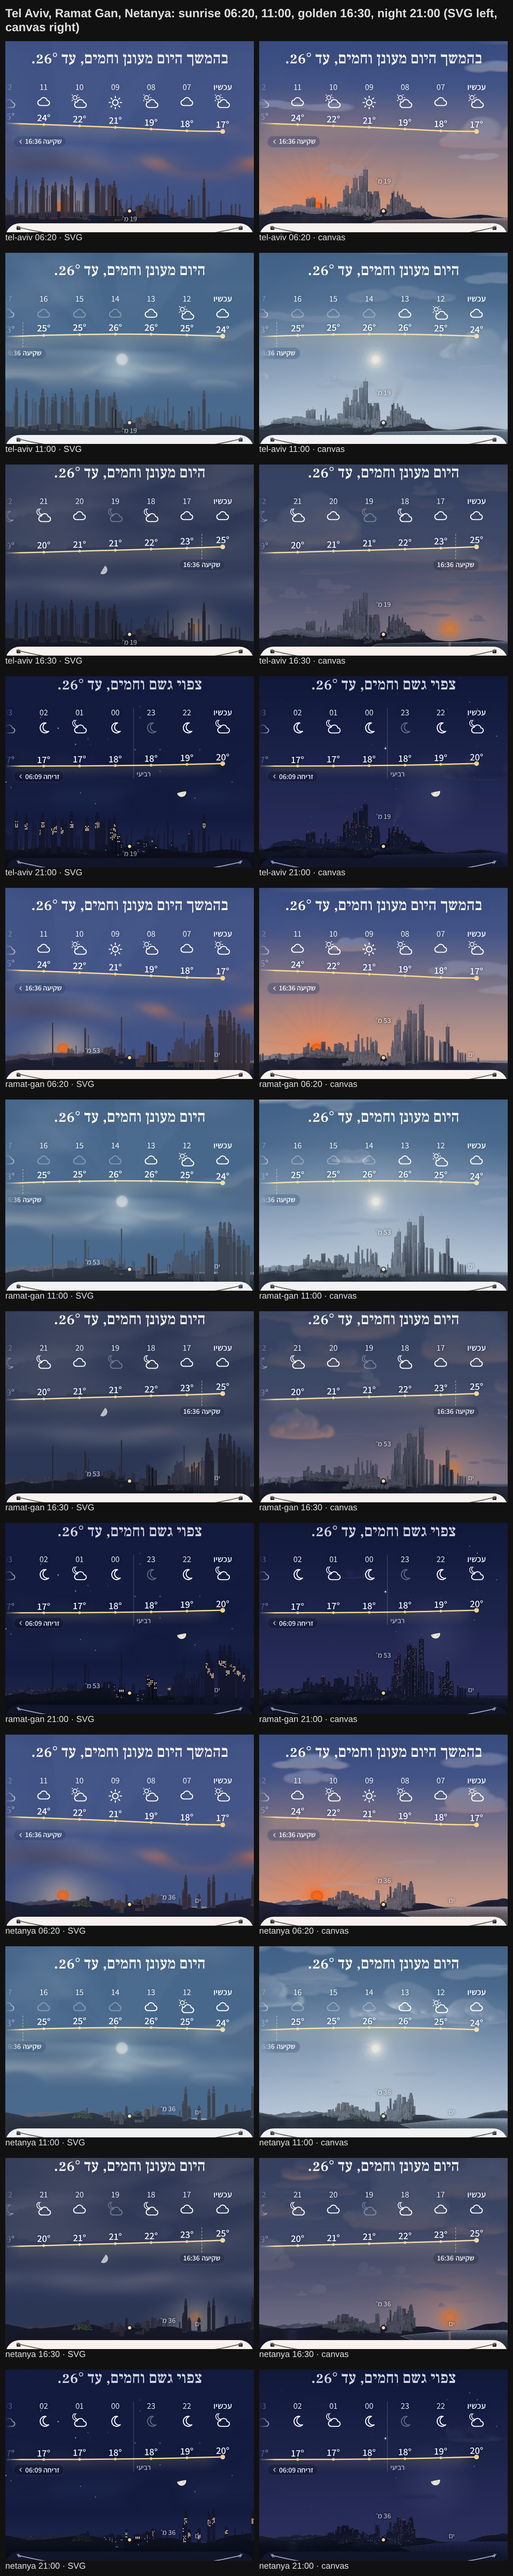
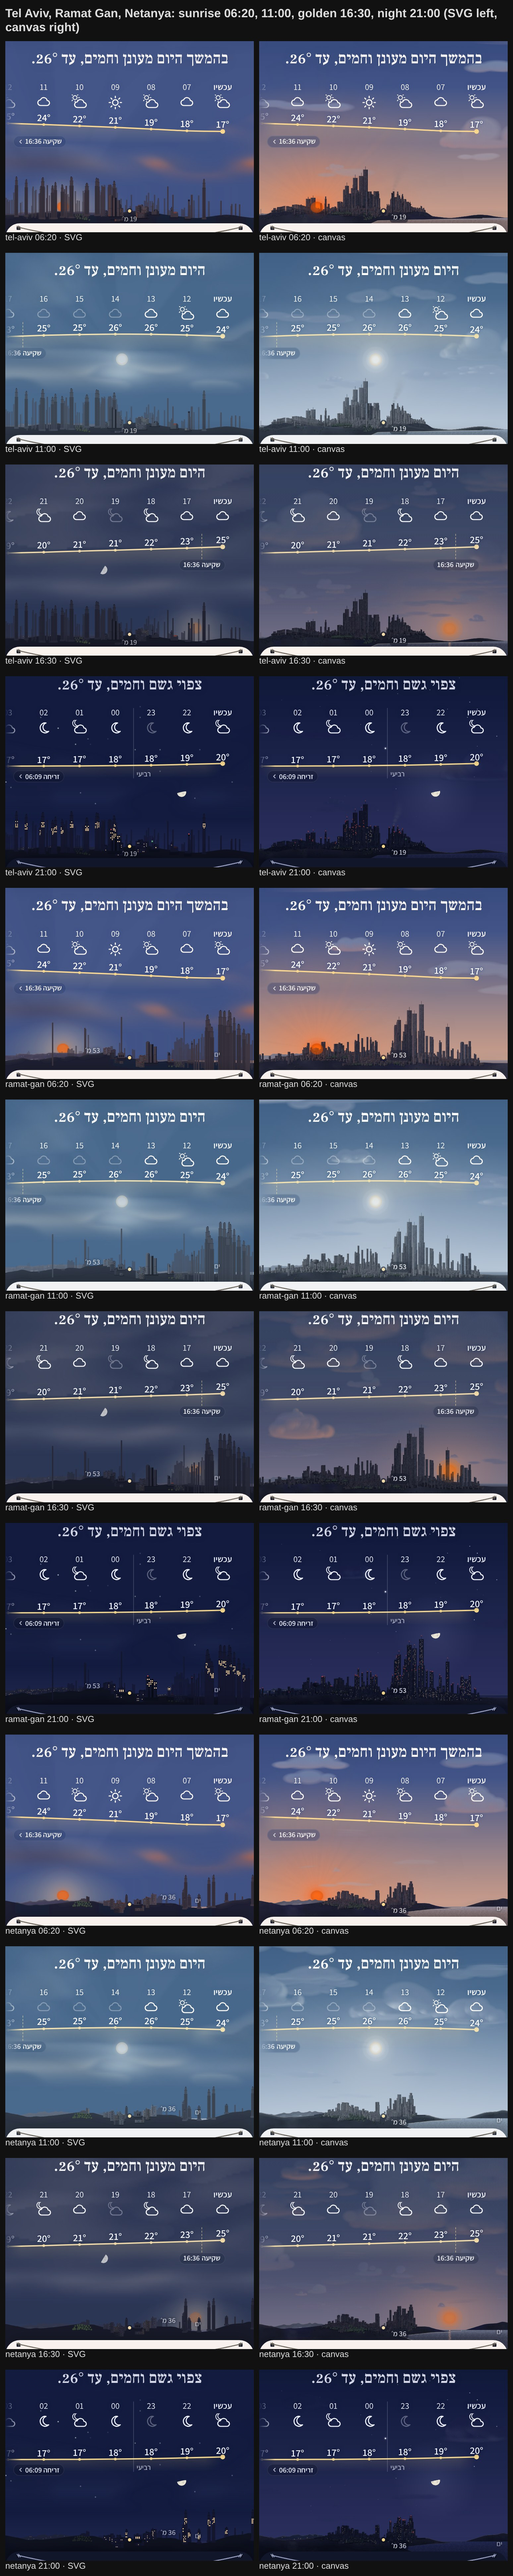
C9 review pack regenerated after the defect fixes, with a rays sheet; plan, owner decisions and perf notes
- docs/design/qa/canvas/c9-review/: the seven sheets remade with the same runner, plus rays.jpg; index.md lists
  what was fixed and what remains.
- scene.compare.mjs: `broken` and `hazy` moments for the rays sheet.
- Plan: owner decisions 12 (the pack approved, canvas preferred) and 13 (sun rays where they fit); §6 the
  defects' rules and results, the rays, tests, pixels, perf, what remains. perf.md: the run.

Claude-Session: https://claude.ai/code/session_01E56gvZXYsq7CPbpJHU5CiC

diff --git a/docs/design/CANVAS-SCENE-PLAN.md b/docs/design/CANVAS-SCENE-PLAN.md
@@ -565,6 +565,18 @@ pipeline (land colour by season, vegetation from WorldCover, rain edge marks).
     dense high-rise the jagged mass with spires (B). Houses are never placed outside the real built footprint. The composed
     portrait round the dot (`world/portrait.ts`) is kept only for the drawn stand-in (no panorama, no positions).
 
+**Owner decisions (2026-11-19, at the C9 review):**
+12. **The C9 review pack is approved; the owner prefers the canvas scene.** The switch (C9: canvas the default, `?svg=1` kept
+    one release as the way out, then the deletions of §2) may go ahead once the open defects of §6 are settled.
+13. **Sun rays where they fit** ("something is missing in the sky — maybe sun rays where it fits"): the SVG scene shows soft
+    rays round the sun, the canvas only C7's narrow crepuscular case. Rays wherever they really occur, as general rules from
+    the world state: crepuscular shafts through the gaps whenever the sun is behind broken cloud with enough haze (not only
+    at a low sun), fanning from the sun's true spot; rays fanning over the ridge when the sun sits just behind or at the
+    crest at sunrise or sunset; anticrepuscular rays opposite the sun at a low sun when the crepuscular are strong; a soft
+    glare round a directly seen sun by the haze (what the eye sees), subtle, never a cartoon starburst; none in clear dry
+    air at a high sun, none at night. Cheap (cached, laid at composite time), deterministic, in the anidoodle hand; tested;
+    ray moments in the review pack.
+
 **Deploys pending for the owner** (in order; every later stage appends here instead of deploying):
 1. The forecast Worker (`worker/`) with C0's new hourly fields in its allowlist (`wind_direction_10m`, `visibility`,
    wind speed and direction at 850 / 700 / 300 hPa).
@@ -1473,4 +1485,105 @@ below runs only under `?canvas=1`). Pack: `qa/canvas/c9-review/index.md` (7 shee
   9. Zikhron Ya'akov: the far chimneys at Hadera show as a pale bare stick at the sea's edge.
   10. Be'er Sheva: the mass's west part is a flat, even wall.
   - Under `?wx=` rain and thunder the sun shows veiled in both scenes (no thick-cloud key in `?wx=`); a pack artefact.
+  - No deploys needed.
+
+**C9, the review's defects fixed (2026-11-19): every one by a general rule, and the owner's rays.** Commits on
+`ccr-85ec24f0-9ayxgu` (after the pack); the SVG baseline and the shipped app are unchanged (snapshots untouched; nothing in
+`src/ui` or `src/data` changed; everything below runs only under `?canvas=1`). The pack regenerated with the same runner
+and the same sheets, plus `rays.jpg` (`qa/canvas/c9-review/index.md`).
+- *Drawing with the anidoodle skill* (owner decision 7): `craft-bar.md` ("parts floating off": the far tower's foot and the
+  towns at the towers' feet; "text is never set over a busy picture without a plate under it": the label's backing;
+  "gradient sky, disc sun": the glare and rays as light, not a starburst), `realism-and-craft.md` ("form, then colour: one
+  named light", the one world light for the mass, the water's path and the rays) and `determinism-and-contract.md` (every
+  new layer's key names what its pixels depend on; randomness seeded by the place) read again; each fix looked at on 2–2.5× crops (Jerusalem and Tel Aviv at 06:20 / 16:30, Jerusalem and Haifa
+  in rain, Haifa's thunder lobe, Haifa's sunrise, the labels, Netanya's and Tiberias's water names, Ramat Gan's edges,
+  Masada's lake, Nahalal's ridge, Hadera's chimneys, Be'er Sheva's west, the rays at Haifa 08:00, Ein Gedi and Tel Aviv).
+1. **A wall faces the sky behind the eye; it gives back its albedo's share of it** (`model/marks.ts` `againstLight`,
+   `wallShade`; `model/outside.ts` `skyFormOf`, `landBehind`). *Against the light* (the sun low in the half of the sky the
+   eye looks into, 1 at sunrise and sunset over the land, falling by 40° and toward the eye's side, through twilight) the
+   walls the eye sees face away from the sun and the bright sky: no stone lift, less of the air's tone, the glass mirroring
+   the dim sky; under a dull sky (direct < 0.4) they see the dim horizon half of the overcast and give back about what the
+   ground does. The sky's form on the mass (C5b) is now by albedo in linear light (0.45 × 0.62 of the sky they face for the
+   tops, 0.55 for the face to the sun's side; against the light the sky behind the eye, 0.45 of the view's): tops and rims
+   catch a little light, never the sky's own. And **nothing is hazier than the land it is seen against**: a box, tower,
+   tree or mark whose foot shows in front of a plane (the near ridge with the lie's 6 px over it, the place's own drawn
+   ground, the far planes) takes no more than that land's distance of air; the far rows of a deep city (Jerusalem's 10 km)
+   had taken up to 13 km of it over a ridge 3 km off. Result: Jerusalem and Tel Aviv at 06:20 / 16:30 read as dark masses on
+   their ridge, a rim on the sun's side, the walls within 0.03 (luminance) of the ridge at their distance (were 0.1–0.3
+   over it); at 11:00 lit stone stays 0.10 over the ridge; in rain the mass reads a little lighter than the hill, not pale.
+   The far towns take the same shade (`model/farCities.ts`: their shade's stone by `wallShade`, their lit face a rim against
+   the light).
+2. **The aureole is the air's, nearer than any cloud; a bank in front of the sun has its silver** (`model/bodies.ts`
+   `bodies.aureole` at z 8.6 over the clouds, the disc still at 5 under them; `model/clouds.ts` `litOf`: a bank whose outline
+   comes within the aureole's reach of the sun takes a silver edge of 0.9 × the sun's strength × √(the disc's visibility),
+   whatever lights its top (`through`); the painter's rim and silver wash on every heaped or sheet bank). Haifa 15:00 thunder:
+   the lobe over the disc reads as a cloud passing the sun, its edge toward it lit, the glow lying over it, not a black coin
+   in a ring. (The silver is baked into the drifting layer as C6's was: over a minute's drift it slides with its bank.)
+3. **The place's own mass never hides a body the place's eye sees** (`model/bodies.ts` `bodiesOverPlace`). The outside view
+   draws the place from an eye north of it, the sky from the place itself; where the sun (or moon) is `overLand` from the
+   place (judged on the panorama's own skyline, as the SVG shows it) and the place's mass, towers or marks would cover the
+   disc, the disc is laid again on the land over the mass (its aureole stays on the sky, glare round the mass's edge). A body
+   behind the true land stays hidden (Haifa 16:30, Ein Gedi's cliffs). Haifa 06:20: the sun shows low over the lower city by
+   the bay.
+4. **The height label sits beside the dot, level with it, on a small backing** (`world/place.ts` `besideDot`,
+   `BACKING_PAD`; `scene/react/SceneOverlay.module.css` `.backed`), for every place seen from outside: right of the dot,
+   else left, else a few px up or down, then a little farther out; clear of the marks and the notes; where the dot is ringed
+   by marks (Tel Aviv) the spot that covers least. The backing (the near land's tone at 72 %) carries it over the mass, which
+   no longer gives way to it (no clear zone for a backed label).
+5. **A water name is written on its water's surface as drawn** (`world/place.ts` `notesOnWater`): along its own stretch
+   where the surface shows deep enough under the far shore for the letters (the shore's raggedness under a letter or two let
+   pass), nearest the stretch's middle, clear of the place's mass, towers, trees, the towns and towers beyond and the dot;
+   else, for the sea, on the outside view's coastal sea (its polygon, from the open side); else unnamed. Netanya's and
+   Haifa's "ים" now lie on the sea, Tiberias's "כנרת" and Masada's "ים המלח" on the lake (Masada's was dropped); Ramat Gan's
+   sea, only seen among Tel Aviv's towers, goes unnamed. (`sceneNotes` itself is the SVG's and unchanged.)
+6. **The towns 0–6 km out are drawn by the outside view, as the towers beyond** (`world/outside.ts` `beyondTowns`): every
+   built square of the city raster (≥ 20 %) outside the place within the skyline's reach, at its true spot in the outside
+   projection, as wide as it is there, its roof by the perspective (never larger a metre than the place's near edge), no
+   more than the panorama sees of it over the land in front, hazed by its distance; drawn behind the place with the towers
+   beyond, far first. The far towns still start at 6 km: the two now meet. Ramat Gan's frame-edge towers stand in Bnei Brak's
+   and Givatayim's blocks (891 squares; Tel Aviv 203, Haifa 103, Nahalal 102 on its ridges).
+7. **Water mirrors in linear light; the sun's path takes the one light** (`model/tone.ts` `mixLight`, `model/water.ts`;
+   `world/water.ts` `waterOf`). The Fresnel share of the mirrored sky (or land) over the water's dark is a share of light, so
+   it is mixed in linear light (a perceptual mix of a light and a near-black read far darker): far water is the bright mirror
+   it is. The mirrored land takes only the air between the water and its shore (it took the land's whole air, then the
+   water's again). The sun's path on the water takes the world's direct light and its `overLand`, not a second rule from the
+   cloud cover alone (which left Masada's sunrise sun, seen through broken cloud, with no path). Masada 06:20: the lake reads
+   as a light sheet under the backlit Moab with its path; every lake and sea is a little brighter.
+8. **Within the reach a neighbour's tall structure shows, named or not** (`world/marks.ts` `nearBeyond`, ≥ 20 m within 6 km;
+   the far rule, a name and fame or huge, stays for the far towns' range). Nahalal: the chimney on its eastern ridge is back,
+   with its smoke. Its "water tower" in the SVG is the one 1.6 km *north* of it: behind the eye in the true view (the SVG's
+   portrait placed it by side); the minarets and churches of Nazareth (9.5–10 km, named) stay hidden by the land in front.
+9. **A far tower stands on its own works** (`world/farCities.ts` `townShapes`: a low hall 2.6–4.2 × its width at its foot,
+   seeded) and takes the far towns' backlit shade. Zikhron's Hadera chimneys (250 m, 13 km): their foot is under the coastal
+   ridge's line as the panorama sees it (so the hall is hidden there); they stay a thin hazy silhouette over the sea's edge,
+   which is what 13 km of a 30 km visibility makes of them (darker than the sky, lighter than the far sea at 16:30).
+10. **A built cell is as wide as its buildings' frontage** (`world/outside.ts` `fabricOf`: the cell's width × 1.6 √(its
+    raster square's built share), at least 0.4, at a seeded spot in the cell): the streets and yards open and the rows behind
+    show through with their own heights. Be'er Sheva's west (squares 7–20 % built, 4 storeys, p90 13–16 m) breaks a little;
+    the data's own heights there are even (the four-storey estates are), so it stays a low, fairly level band.
+11. **Sun rays wherever they really occur** (owner decision 13; `model/rays.ts`, `paint/weather.ts` `paintRays` with a
+    `corona` look): `hazeOfRays` from the aerosol optical depth (none ≤ 0.08, full at 0.6: 40 km → 10 km), `rayStrengths`:
+    *crepuscular* (`rays`, z 5.5) = sun up × brokenness × (lowness + (1 − lowness) × haze) × (0.55 + 0.45 haze), at any height
+    in a hazy air; *over the ridge* (`rays.ridge`, 5.45) when the sun's clearance over its land is −10…+9 px at −3…10°,
+    by the disc's visibility and the haze; *anticrepuscular* (`rays.anti`, 5.4) converging on the point opposite the sun
+    (as far under the horizon as the sun is over it), when the crepuscular are ≥ 0.25 at a low sun; *glare* (`rays.corona`,
+    5.3): 30 fine short rays round a sun seen over its land, by its visibility and the haze, brightest just off the limb.
+    None by night or from a dust coin. Each its own small cached layer, seeded by the place; laid at composite time.
+- *Tests* (`scene/model/c9.test.ts`, 24; `outside.test.ts` +5; `model.test.ts`, `weather.test.ts` rewritten for the label
+  and the rays): the aureole over the clouds and the disc under; silver on the banks by the sun under thunder; the disc
+  over Haifa's mass at sunrise, none behind the land; water names on their water (letters inside the stretch or the coastal
+  sea, never over the place's blocks, under the sheet's edge); the towns beyond (count, scale, far first, Ramat Gan's edge
+  towers footed); `mixLight`; Masada's path by the world's light; Nahalal's chimney, no low unnamed mark beyond; the far
+  towers' foot; Be'er Sheva's frontage; rays none by night or in clear dry air at noon, crepuscular more at a low sun and in
+  haze, the ridge's at Ein Gedi's sunrise, the glare only for a seen sun, the anticrepuscular at the antisolar point; the
+  mass against the light within 0.05 of its ridge (Jerusalem, Tel Aviv, Haifa, Be'er Sheva at 06:20 and 16:30; > 0.08 at
+  11:00), no box hazier than the land behind it; the label beside the dot, level, clear of the marks (Tel Aviv: one at most).
+- *Pixel references:* re-recorded deliberately, 58 of 59 (the mass and the far towns' shade, the water's mirror, the rays,
+  the aureole, the label's clear zone, the towns beyond); 59/59 on both paint paths (worker and `SCENE_PAINT=main`).
+- *Perf* (`qa/canvas/perf.md`, C9 defects): within the noise of the pack's run but for the world's place part (the towns
+  beyond: one `seenAt` a raster square within 6 km), see there.
+- **Remaining** (for the owner's eye; none a point fix): Be'er Sheva's west is still a fairly level band (true to its data);
+  Hadera's chimneys stay a thin pale line (true to their haze); Nahalal's SVG water tower is behind the true view; the baked
+  silver drifts with its cloud; a far town block on Nahalal's ridge reads a little like a row of boxes on the skyline (the
+  raster's squares, ~120 × 230 m, at 3–5 km).
   - No deploys needed.

diff --git a/docs/design/qa/canvas/c9-review/index.md b/docs/design/qa/canvas/c9-review/index.md
@@ -16,11 +16,14 @@ Hours: sunrise 06:20, 11:00, golden hour 16:30, night 21:00.
 | [places-5-negev.jpg](places-5-negev.jpg) | Be'er Sheva, Ramon crater × 4 hours |
 | [weather-1-rain-showers-thunder.jpg](weather-1-rain-showers-thunder.jpg) | rain (Haifa, Tel Aviv, Jerusalem 12:00); showers (Haifa 14:00, Jerusalem 12:00 with the edge mark, Tiberias 12:00); thunder (Haifa 15:00, Tiberias 12:00) |
 | [weather-2-fog-dust-snow-gale.jpg](weather-2-fog-dust-snow-gale.jpg) | fog (Tiberias 12:00, Nahalal 08:00); dust (Jerusalem, Be'er Sheva 12:00); snow (Jerusalem, Rosh Pina 12:00); gale (Rosh Pina, Netanya 12:00) |
+| [rays.jpg](rays.jpg) | sun rays (owner decision 13): the day's own sky (Haifa 08:00, Jerusalem, Ein Gedi, Masada 06:20), a broken sky (Tel Aviv 07:00), a hazy broken sky (Tel Aviv 12:00, Haifa 16:00, Rosh Pina 15:00) |
 
 The weather moments are the scene harness's (`src/dev/sceneHarness.tsx` WEATHER) given to both scenes as the app's own
 `?wx=` override. `?wx=` has no key for the thick share of the cloud, so under rain and thunder the fixture's own thick
 share stays, and the sun shows through as a veiled disc in both scenes (the harness's rain still, with `thickCloud` 90,
 hides it).
+
+`broken` and `hazy` (rays.jpg) are the runner's own: half the sky in cloud at 25 km and at 12 km visibility.
 
 Remake: `node e2e/scene.compare.mjs docs/design/qa/canvas/c9-review/<sheet>.jpg <place>@<HH:MM>[@<weather>] … --title=…`
 (the moments of each sheet are in its row captions).
@@ -28,3 +31,19 @@ Remake: `node e2e/scene.compare.mjs docs/design/qa/canvas/c9-review/<sheet>.jpg 
 Fixed before the pack (general rules, CANVAS-SCENE-PLAN.md §6, C9 pack): the posts on Rosh Pina's crest (towers beyond
 the place that the land in front hides), the vertical haze edge in Tiberias's fog (the air's share along a crest no
 steeper than a set slope), the dark band under the place's own ground in snow. Open defects, ranked: §6.
+
+**Regenerated after the defects were fixed (2026-11-19, same runner, same sheets, plus rays.jpg).** Fixed, each by a
+general rule (CANVAS-SCENE-PLAN.md §6, "C9, the review's defects fixed"): (1) a backlit or overcast mass reads dark on its
+ridge (walls face the sky behind the eye; nothing hazier than the land it is seen against); (2) a cloud lobe over the sun
+has its silver edge and the aureole lies over the cloud; (3) the sun the place sees shows over its own mass (Haifa 06:20);
+(4) the height label beside the dot on a small backing; (5) water names on their water (Netanya's and Haifa's on the sea,
+Tiberias's and Masada's on the lake; Ramat Gan's, only among Tel Aviv's towers, unnamed); (6) the towns 0–6 km out drawn
+with the towers beyond (Ramat Gan's edges); (7) water mirrors in linear light, the sun's path by the one light (Masada
+06:20); (8) neighbours' tall structures within 6 km (Nahalal's ridge chimney); (9) far towers on a foot, in the far towns'
+backlit shade; (10) the fabric's frontage from the built share (Be'er Sheva's west). New: rays where they occur.
+
+Still open (for the owner's eye): Be'er Sheva's west stays a fairly level band (its data's own even four-storey estates);
+Hadera's chimneys from Zikhron stay a thin hazy line (13 km in a 30 km visibility; their foot under the coastal ridge);
+Nahalal's SVG water tower stands 1.6 km north, behind the true view; in fog (Tiberias, Nahalal 08:00) the rays and the
+glare are strong, as fog beams are, which may read as much; a cloud's baked silver slides with its drift.
+

diff --git a/docs/design/qa/canvas/perf.md b/docs/design/qa/canvas/perf.md
@@ -522,3 +522,22 @@ known one (no place part, no far towns); the loading model is mostly the sky's c
 (Haifa's and Tel Aviv's other rows fell off the captured output.) Within C5b's and C8's ranges: the visibility test of a
 tower beyond is one `seenAt` a tower in the world's place part; `hazeAlong` is linear in the crest's points. The OVERs
 are C5's and C6's (cold model, scrub model for the cities and now Rosh Pina and Tiberias at ~1.05×, within the noise).
+
+## C9 defects (2026-11-19): the mass against the light, the towns beyond, water names, rays
+
+`npm run test:perf` (all places) and `node e2e/scene.perf.mjs --place=haifa,tel-aviv,ramat-gan` (CPU ×4, dpr 2.75, software
+raster, worker path), n = 1 for the cold rows:
+
+```
+                  worldCold   modelCold   scrub.model p95   firstPaint   anim frame p50 / p95   memory
+  haifa           555–601 ms  59–80 ms    16.6–20.6 ms      31.1 ms      1.40 / 3.00 ms         30.7 MB
+  tel-aviv        515         42–57       15.6–20.4         24.7         1.50 / 3.10            26.6
+  ramat-gan       476         54          14.7              26.8         1.50 / 3.00            23.6
+  shadmot-mehola  221         24          13.0              21.1         1.00 / 2.50            24.4
+```
+
+The world's cold build is up by ~10 % for the cities (the towns beyond: one `seenAt` per raster square within 6 km of the
+place, outside it; Ramat Gan keeps 891 of them), modelCold within the pack's noise (one cold sample: 45 → 59 / 80 ms for
+Haifa over two runs). The rays are four small cached sky layers (a scrub repaints those that change: `rays`, `rays.ridge`,
+`rays.anti`, `rays.corona`, `bodies.aureole`, `bodies.sun.over`); the animated frame stays within its 4 ms budget, memory
+under 48 MB. The OVERs are C5's and C6's (cold model, the cities' scrub model), as before.
